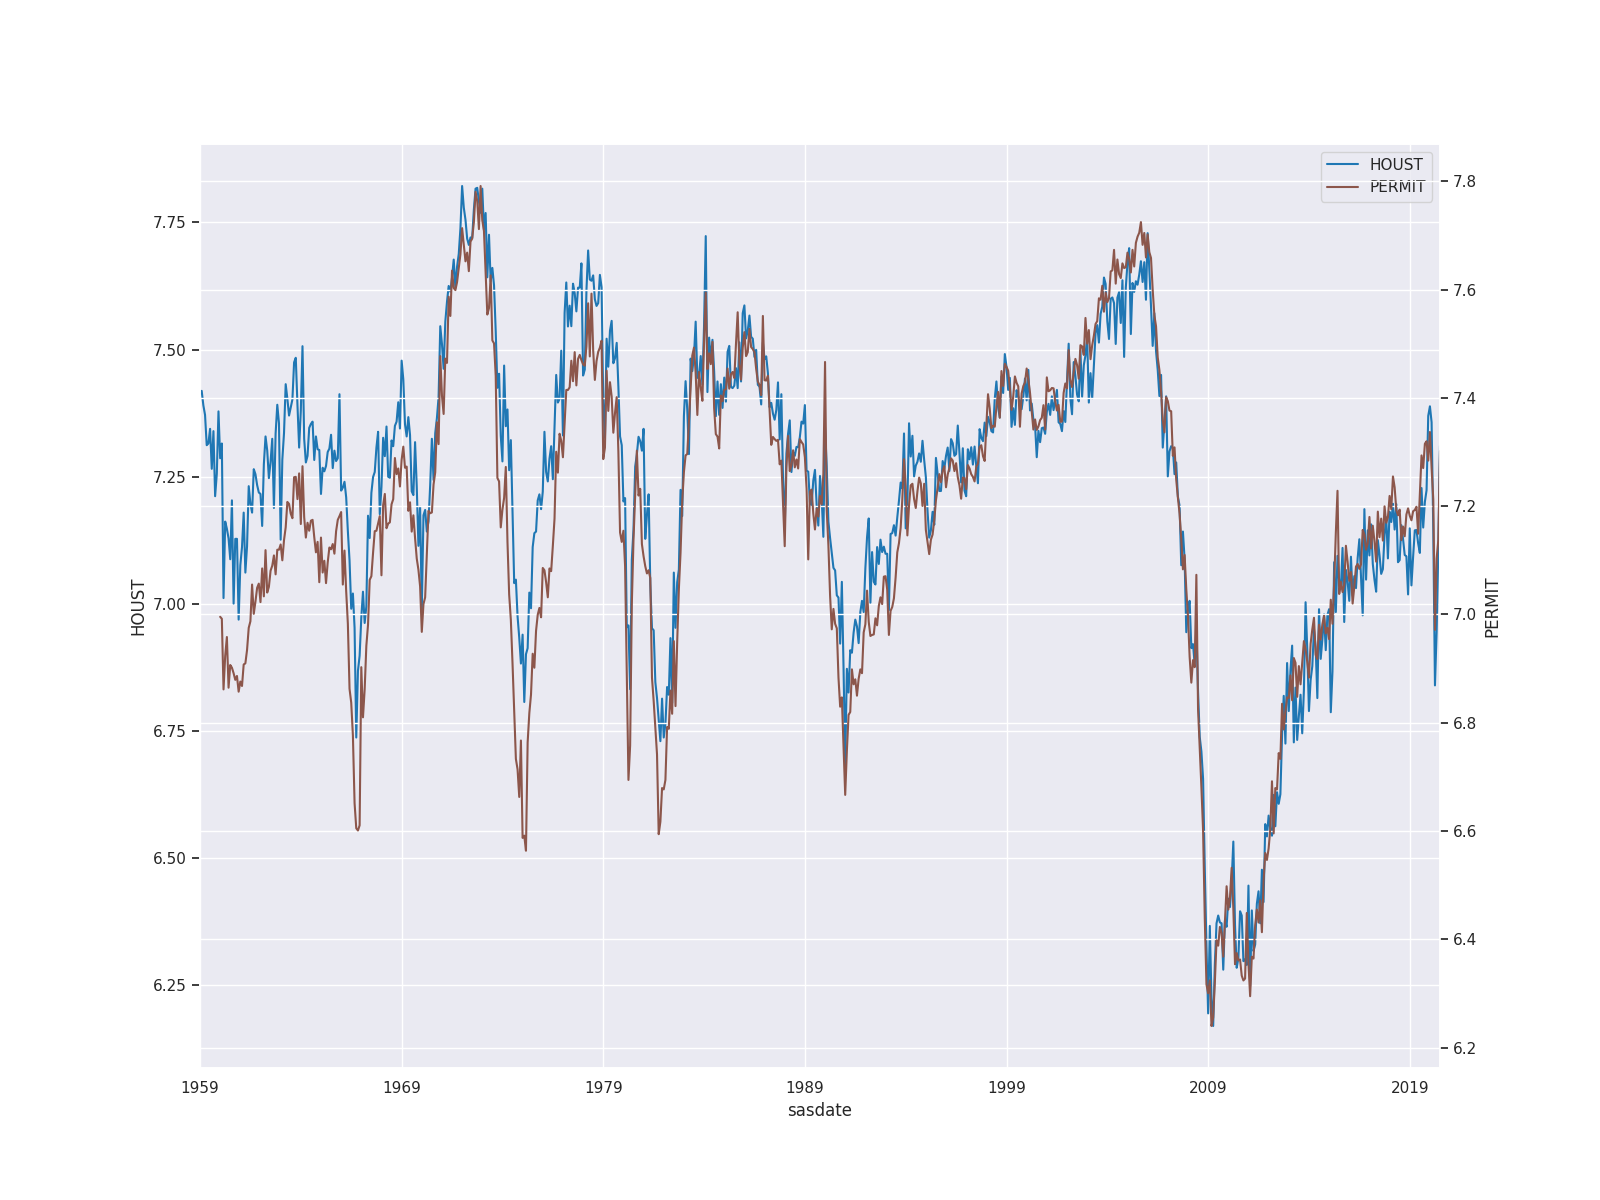
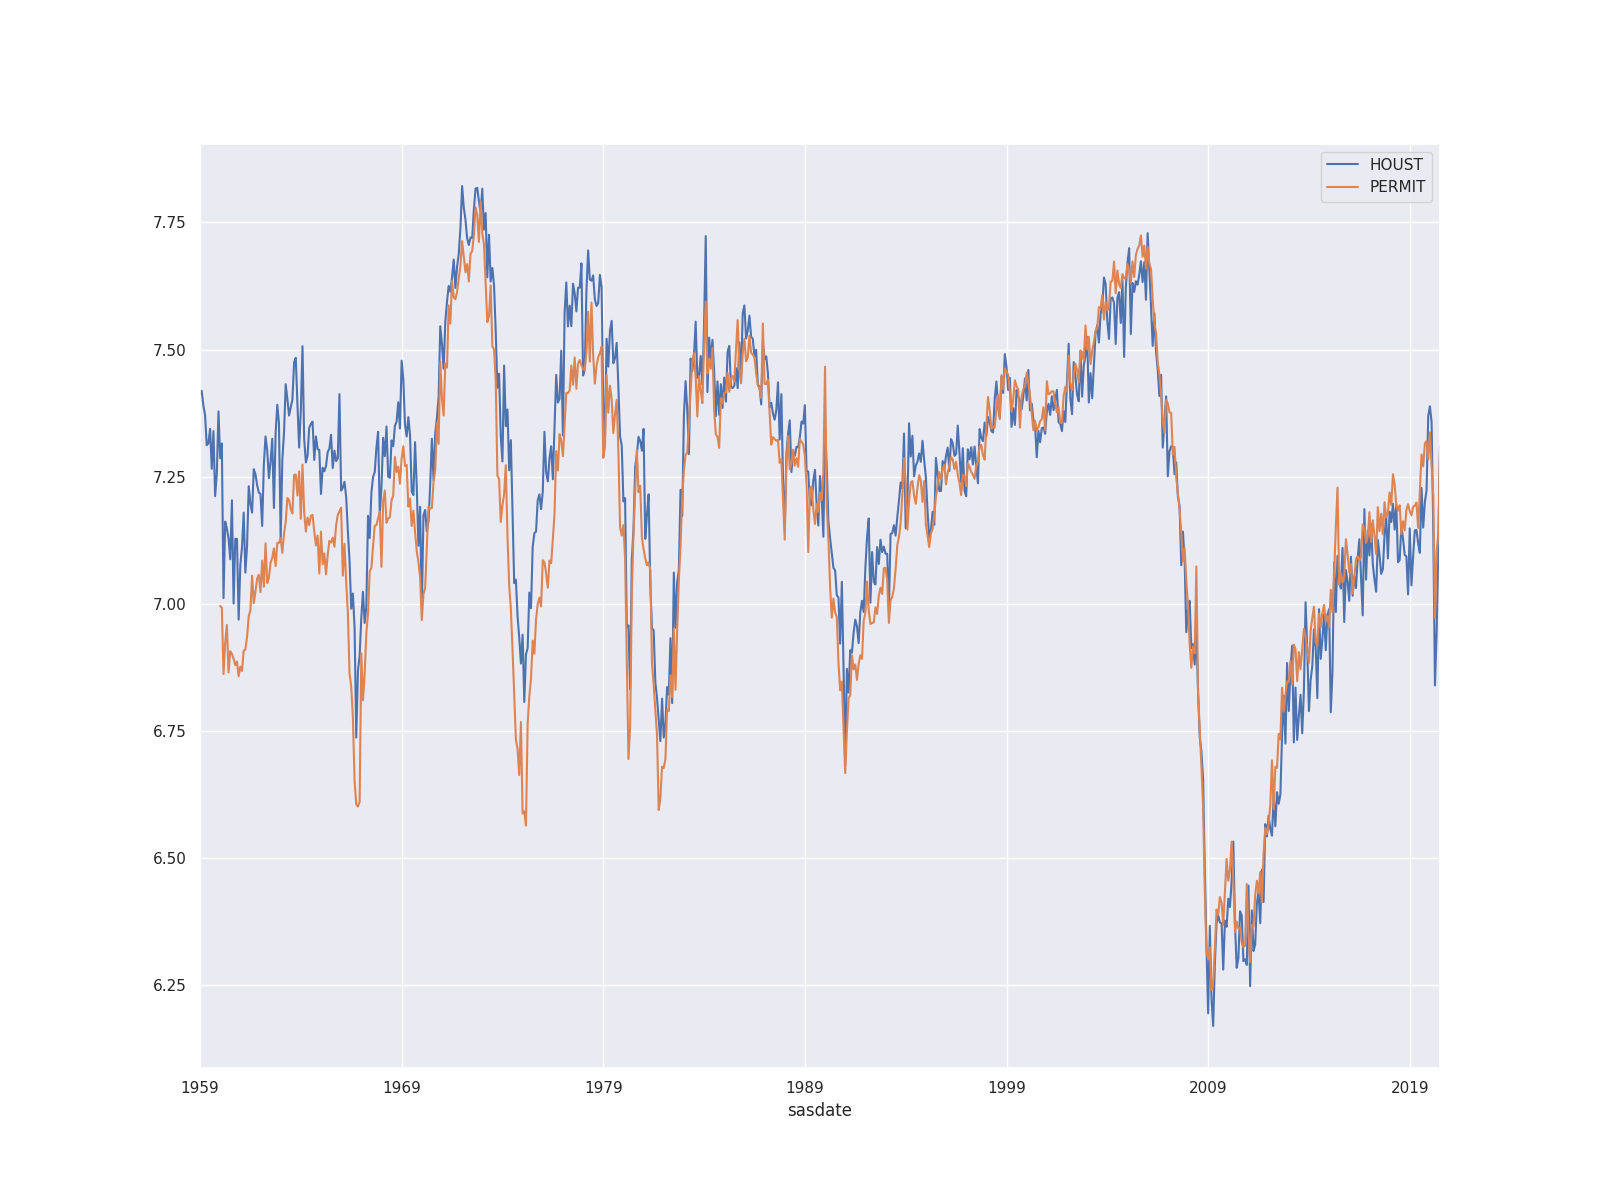
👨🎨 acf plots.

diff --git a/homework/adv-macroeconometrics/week-two/main.py b/homework/adv-macroeconometrics/week-two/main.py
@@ -6,7 +6,7 @@ regions = ["NE", "MW", "S", "W"]
 
 regional_hst = [f"HOUST{r}" for r in regions]
 
-plot = False
+plot = True
 
 if __name__ == '__main__':
 
@@ -16,12 +16,14 @@ if __name__ == '__main__':
 
     houst_reg = parsed_df[regional_hst]
 
-    cov, var_names = stats.sample_covariance(houst_reg)
-
-    plotting.plot_covariance(cov, var_names, save_data=True, name="regional-cov")
-
     # -----------------
 
     if plot:
-        plotting.plot_subdf(parsed_df, cols, figname="national", mul_axis=True)
+        plotting.plot_subdf(parsed_df, cols, figname="national", mul_axis=False)
         plotting.plot_subdf(parsed_df, regional_hst, figname="regional-houst", mul_axis=False)
+
+        cov, var_names = stats.sample_covariance(houst_reg)
+        plotting.plot_covariance(cov, var_names, save_data=True, name="regional-cov", annot=True)
+
+
+        plotting.plot_acf(houst_reg, figname="regional-acf")
